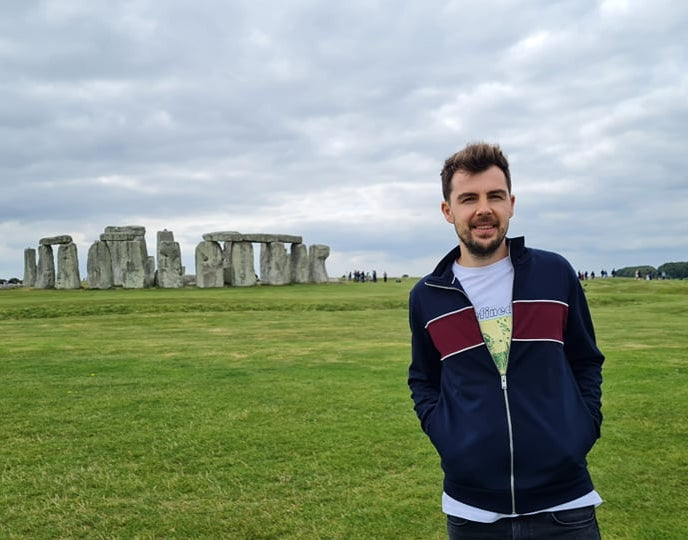
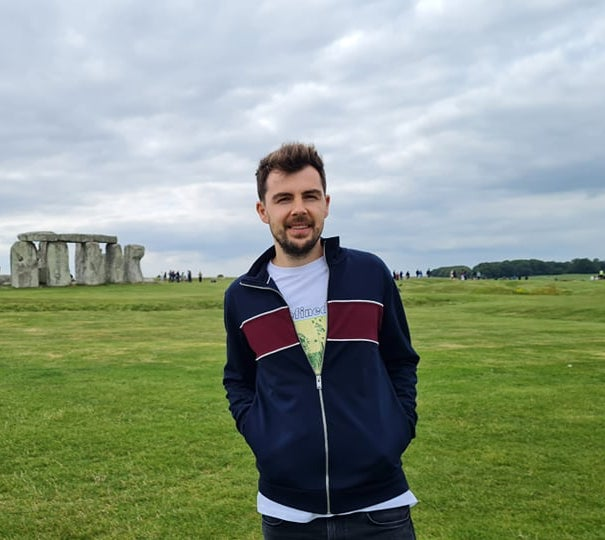
intro section css added

diff --git a/index.html b/index.html
@@ -22,10 +22,10 @@
         </button>
         <nav class="nav">
             <ul class="nav__list">
-                <li class="nav__item"><a href="home" class="nav__link">Home</a></li>
-                <li class="nav__item"><a href="skills" class="nav__link">My Skills</a></li>
-                <li class="nav__item"><a href="about" class="nav__link">About Me</a></li>
-                <li class="nav__item"><a href="work" class="nav__link">My Work</a></li>
+                <li class="nav__item"><a href="#home" class="nav__link">Home</a></li>
+                <li class="nav__item"><a href="#skills" class="nav__link">My Skills</a></li>
+                <li class="nav__item"><a href="#about" class="nav__link">About Me</a></li>
+                <li class="nav__item"><a href="#work" class="nav__link">My Work</a></li>
             </ul>
         </nav>
     </header>
@@ -36,7 +36,7 @@
             Hi, I am <strong>Mihai Cojocaru</strong>
         </h1>
         <p class="section__subtitle section__subtitle--intro">web developer</p>
-        <img src="./images/mihai-01.jpg" alt="a picture of Mihai Cojocaru">
+        <img src="./images/mihai-01.jpg" alt="a picture of Mihai Cojocaru" class="intro__img">
     </section>
 
     <!-- My Skills -->

diff --git a/css/style.css b/css/style.css
@@ -21,6 +21,9 @@
     --fs-h2: 2.25rem;
     --fs-h3: 1.25rem;
     --fs-body: 1rem;
+
+    --bs: 0.25em 0.25em 0.75em rgba(0,0,0,.25),
+          0.125em 0.125em 0.25em rgba(0,0,0,.15);
 }
 
 @media (min-width: 800px) {
@@ -98,5 +101,50 @@ h3 {
 .section__subtitle--about {
     background: var(--clr-accent);
     font-family: var(--ff-secondary);
+    padding: .25em 1em;
     margin-bottom: 1em;
+}
+
+/* Intro Section */
+
+.intro {
+    position: relative;
+}
+
+.intro__img {
+    box-shadow: var(--bs);
+}
+
+.section__subtitle--intro {
+    display: inline-block;
+}
+
+@media (min-width: 600px) {
+    .intro {
+        display: grid;
+        width: min-content;
+        margin: 0 auto;
+        grid-column-gap: 1em;
+        grid-template-areas:
+            "img title"
+            "img subtitle";
+        grid-template-columns: min-content max-content;
+    }
+
+    .intro__img {
+        grid-area: img;
+        min-width: 250px;
+        position: relative;
+        z-index: 2;
+    }
+
+    .section__subtitle--intro {
+        align-self: start;
+        grid-column: -1 / 1;
+        grid-row: 2;
+        text-align: right;
+        position: relative;
+        left: -1.5em;
+        width: calc(100% + 1.5em);
+    }
 }
